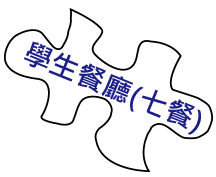
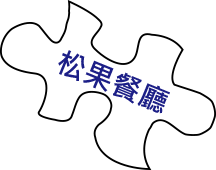
change some name

Changed region(s): [[0.0, 0.0, 1.0, 1.0]]

diff --git a/database/seeds/LifeTableSeeder.php b/database/seeds/LifeTableSeeder.php
@@ -16,11 +16,11 @@ class LifeTableSeeder extends Seeder
 	    	'小木屋鬆餅',
 	    	'阿諾可麗餅',
 	    	'學生餐廳(九餐)',
-	    	'學生餐廳(七餐)',
+	    	'松果餐廳',
 	    	'宵夜街',
 	    	'後門',
-	    	'松苑廣場',
-	    	'女14地下餐廳',
+	    	'松苑餐廳',
+	    	'女14地下商場',
 	    ];
 	    $life_live = [
 	    	'男3舍',
